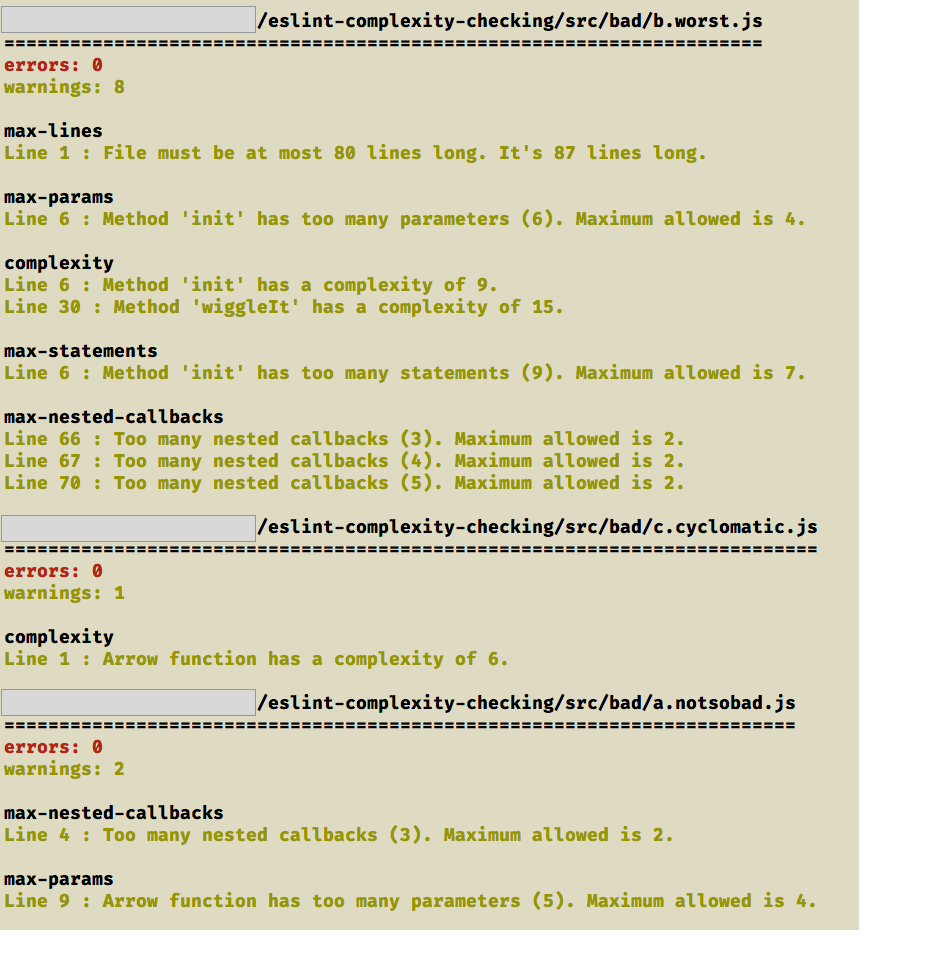
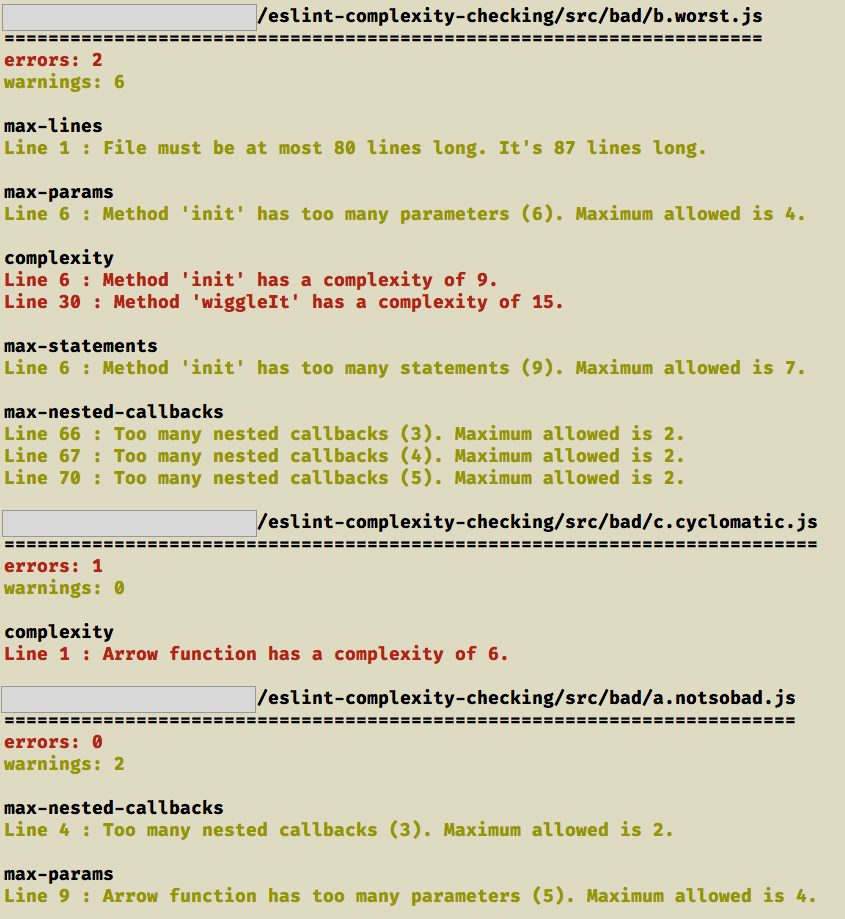
trimming PWD from the filepath, making nested callbacks errors, extending readme

diff --git a/formatter/sorted.js b/formatter/sorted.js
@@ -5,10 +5,13 @@ const groupMessages = require('./groupMessages');
 module.exports = results => {
   const sorted = results.sort(errorSorter);
 
-  const renderHeadline = result => `${col.boldBlack}${result.filePath}
-${col.boldBlack}${'='.repeat(result.filePath.length)}
+  const renderHeadline = result => {
+    const trimmedFilePath = result.filePath.replace(process.env.PWD || '', '');
+    return `${col.boldBlack}${trimmedFilePath}
+${col.boldBlack}${'='.repeat(trimmedFilePath.length)}
 ${col.boldRed}errors: ${col.red}${result.errorCount}
 ${col.boldYellow}warnings: ${col.yellow}${result.warningCount}\n\n`;
+  }
 
   const renderMessage = (errorLabel, messages) => `${col.boldBlack}${errorLabel}
 ${messages.join('\n')}

diff --git a/.eslintrc.js b/.eslintrc.js
@@ -28,7 +28,7 @@ module.exports = {
             }
         ],
         "complexity": [
-            "warn",
+            "error",
             5
         ],
         "max-params": ["warn", 4],
@@ -43,7 +43,7 @@ module.exports = {
             }
         ],
         "max-nested-callbacks": [
-            "warn",
+            "error",
             2
         ],
         "max-depth": [

diff --git a/formatter/eslint.complexity.config.js b/formatter/eslint.complexity.config.js
@@ -33,7 +33,7 @@ module.exports = {
       }
     ],
     "max-nested-callbacks": [
-      "warn",
+      "error",
       2
     ],
     "max-depth": [

diff --git a/README.md b/README.md
@@ -31,7 +31,12 @@ npm run lint:sorted
 
 This will generate an output as below
 
-![](./eslint-sorted-example.png)
+![](./eslint.sorted.png)
+
+This is compared to the standard output that sorts the files alphabetically and outputs the rule violations in the order they occur in each file.
+
+![](./eslint.standard.png)
+
 
 ## What does it all mean?
 
@@ -41,7 +46,7 @@ The output has sorted the files, placing those that contain the most errors and/
 
 The cyclomatic complexity is a measure of the independent paths through a piece of code. The measure is divided by four and added to the error or warning count before being evaluated when sorting the list of problematic files.
 
-This is why, in the example, the file `cyclomatic.example.js` with only a single cyclomatic warning is listed above the file `notsobad.example.js` which has 3 warnings. None of the 3 warnings in `notsobad.example.js` are due to cyclomatic complexity so they are relatively less important when you consider the entire codebase.
+This is why, in the example, the file `c.cyclomatic.js` with only a single cyclomatic error is listed above the file `a.notsobad.js` which has 3 warnings. None of the 3 warnings in `notsobad.example.js` are due to cyclomatic complexity so they are relatively less important when you consider the entire codebase.
 
 For the example above, the file `bad.example.js` has two instances of excessive cyclomatic complexity.
 
